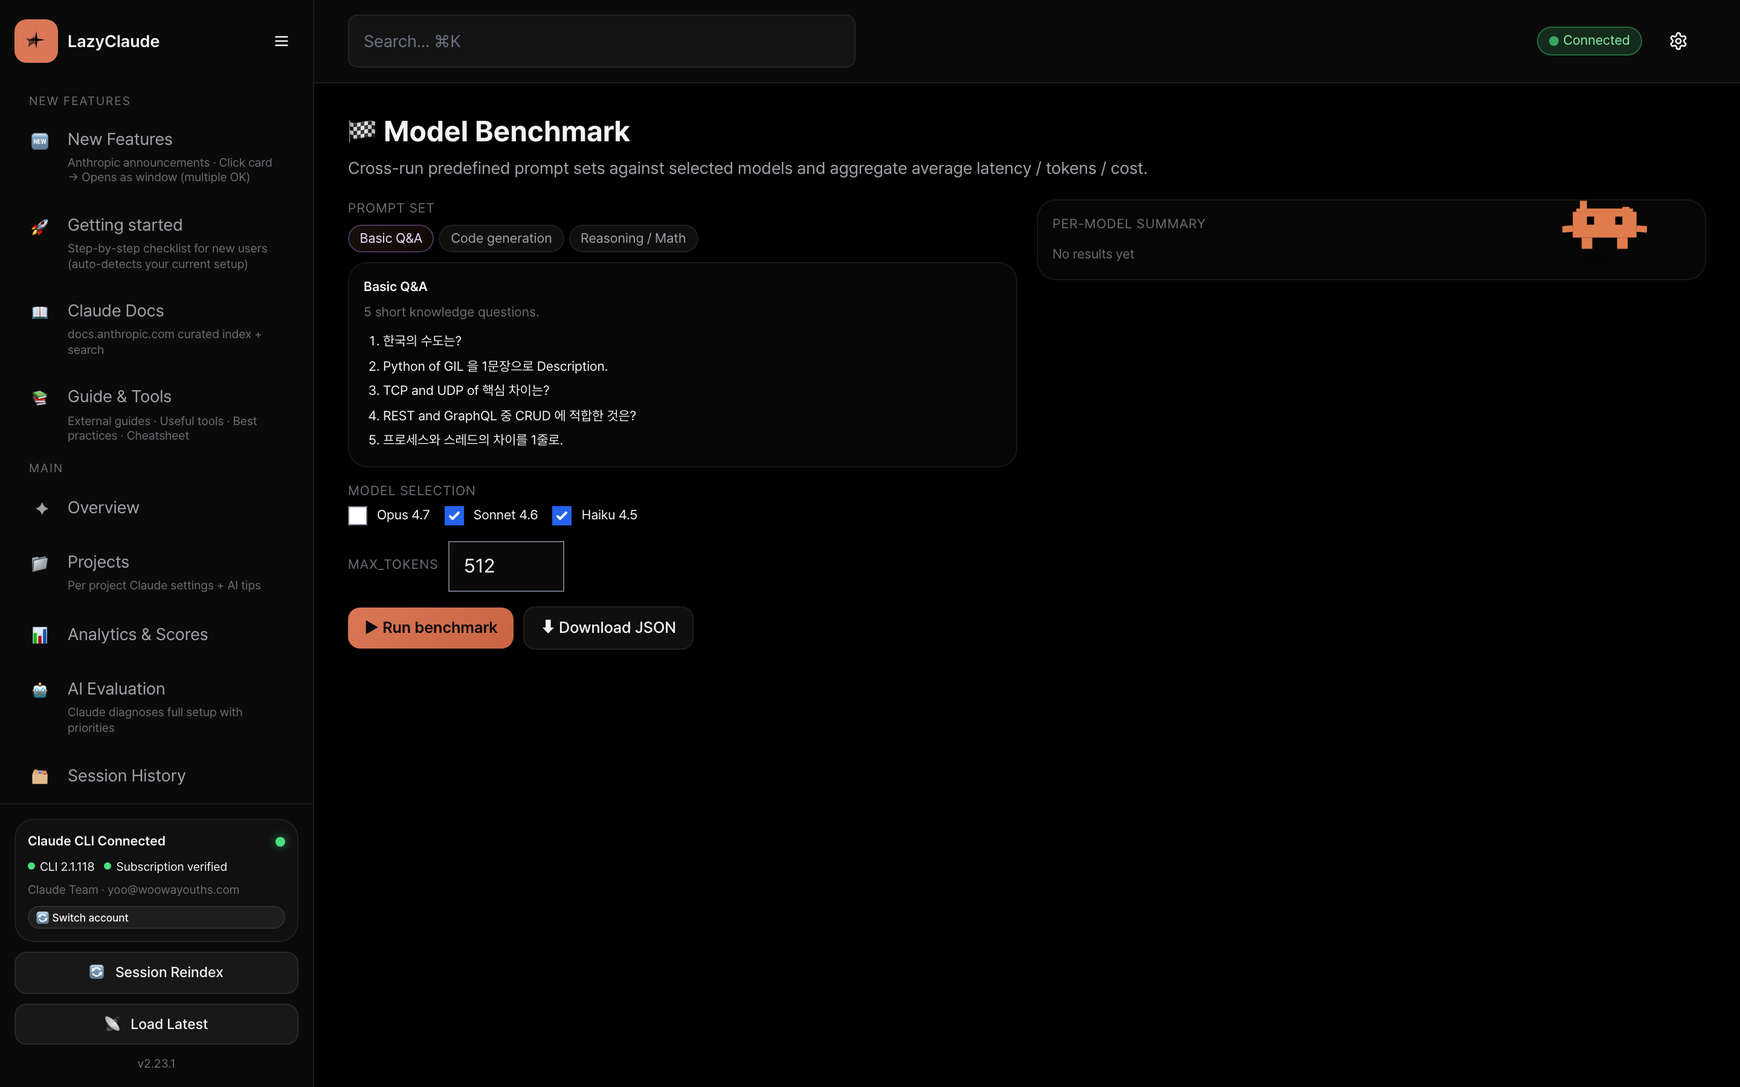
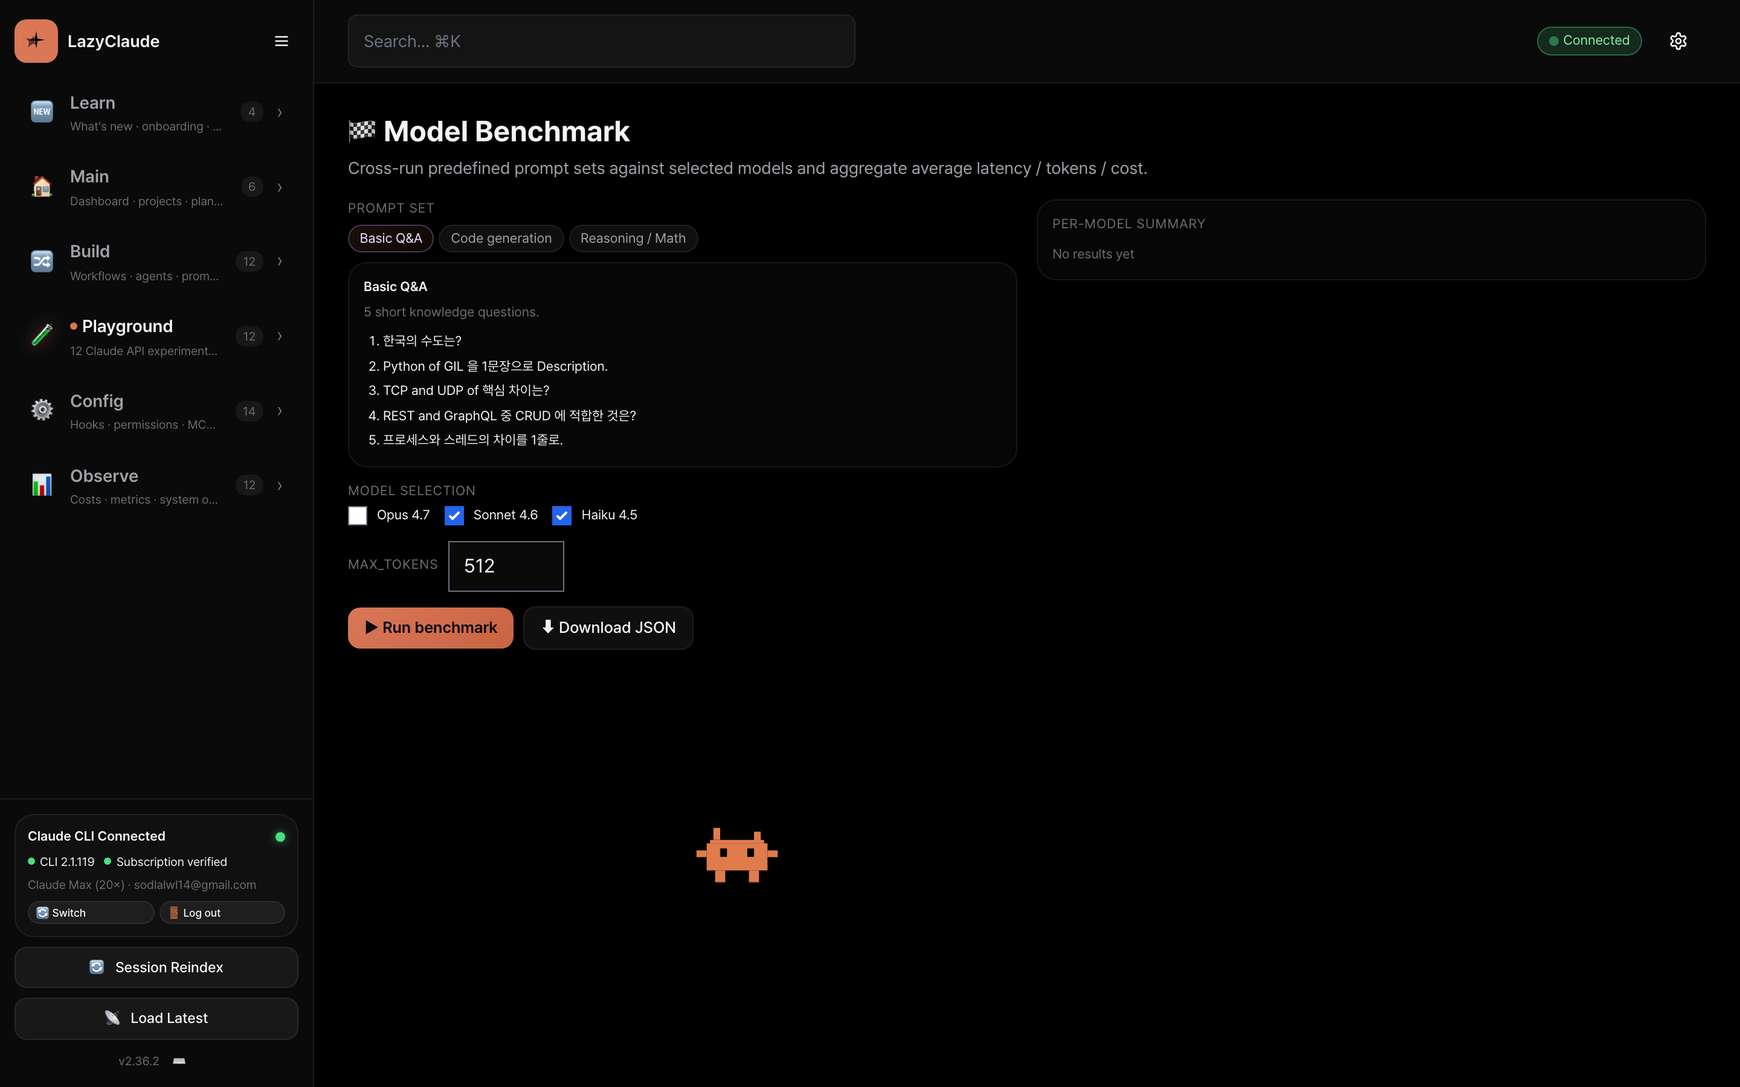
docs: refresh README and screenshots for v2.36 features
- README.md and README.ko.md reflect v2.34.0 → v2.36.2 changes:
  Run Center, Workflow Quick Actions, Commands tab Run buttons,
  OMC/OMX guide cards, server-restart auto-banner.
- New screenshot grid section 'One-click execution (v2.36)' with
  runCenter, crewWizard, commands, guideHub captures.
- Stats panel updated: 54 tabs, 18 workflow node types, 199 routes,
  3,845 i18n keys × 3 locales, 268 Run Center catalog entries, 10
  built-in workflow templates.
- capture-screenshots.mjs adds the 4 new tabs and pre-marks
  cwGuideSeen + auto-dismisses lingering modals so the next tab's
  capture isn't polluted by the previous tab's first-visit overlay.
- All 32 PNGs (16 ko + 16 en) regenerated.

README.zh.md is still on the v2.33.2 baseline — defer to a follow-up
since en is canonical and ko covers Korean speakers.

diff --git a/README.md b/README.md
@@ -27,7 +27,10 @@ LazyClaude is a **local-first command center** that manages your entire `~/.clau
 
 | ver | highlight |
 |---|---|
-| **v2.36.0** | 📦 **Install as a real app** — PWA (Add to Home Screen / install icon, cross-platform) **and** a 72 KB macOS `.app` bundle (`make install-mac` → Spotlight + Dock + auto server lifecycle). Manifest with 3 launch shortcuts, dark/light theme-color, maskable icon. |
+| **v2.36.2** | 🔄 **Server-restart auto-banner** — dashboard polls `/api/version` every 60s and prompts a one-click reload when `serverStartedAt` changes (no more "I deployed but the user is on a stale build"). |
+| **v2.36.1** | 🩹 **Run Center ECC discovery hotfix + OMC/OMX guide cards** — `_ecc_roots()` reads `installed_plugins.json` and recognises both `ecc@ecc` and `everything-claude-code@everything-claude-code` ids. Guide & Tools gains OMC and OMX cards explaining LazyClaude-absorbed vs CLI-only features. |
+| **v2.36.0** | 🎯 **Run Center** — new tab unifying ECC's 181 skills + 79 slash commands + OMC's 4 modes + OMX's 4 commands into one searchable, runnable catalog. **Workflow Quick Actions** — 4 OMC modes (Autopilot / Ralph / Ultrawork / Deep Interview) launchable from the Workflows tab header. **Commands tab Run buttons** — every slash command card gets a ▶ button and an ECC chip. |
+| **v2.35.0** | 📦 **Install as a real app** — PWA (Add to Home Screen / install icon, cross-platform) **and** a 72 KB macOS `.app` bundle (`make install-mac` → Spotlight + Dock + auto server lifecycle). |
 | **v2.34.0** | 🧑✈ **Crew Wizard** — Zapier-style 4-step form scaffolds Planner + Personas + Slack approval + Obsidian log in one click. New `slack_approval` (Slack Web API admin gate) and `obsidian_log` workflow nodes. |
 | **v2.33.2** | 🔌 ECC plugin **full auto-install** via `claude plugin install` — one click from Guide & Tools |
 | **v2.33.1** | 🧰 Guide toolkit manager (ECC + CCB install/remove) · flyout viewport fix · first-visit-only login gate |
@@ -48,7 +51,7 @@ LazyClaude is a **local-first command center** that manages your entire `~/.clau
 
 ```
 ┌────────────────────────────────────────────────────────────────┐
-│  💤  LazyClaude                                     v2.36.0 🇺🇸│
+│  💤  LazyClaude                                     v2.36.2 🇺🇸│
 ├────────┬───────────────────────────────────────────────────────┤
 │ 🆕 New │   🔀 Workflows                                         │
 │ 🏠 Main│   ┌──────┐      ┌──────┐      ┌──────┐                │
@@ -63,7 +66,7 @@ LazyClaude is a **local-first command center** that manages your entire `~/.clau
 └────────┴───────────────────────────────────────────────────────┘
 ```
 
-52 tabs across 6 groups · 16 workflow node types · 8 AI providers · 5 themes · 3 languages.
+54 tabs across 6 groups · 18 workflow node types · 8 AI providers · 5 themes · 3 languages · **Run Center catalog with 268 entries (181 ECC skills + 79 ECC commands + 4 OMC modes + 4 OMX commands)**.
 
 ### 📸 Screenshots
 
@@ -95,6 +98,14 @@ LazyClaude is a **local-first command center** that manages your entire `~/.clau
 | 👥 Project Sub-agents | 🔗 MCP Connectors |
 | ![Project Agents](./docs/screenshots/en/projectAgents.png) | ![MCP](./docs/screenshots/en/mcp.png) |
 
+**One-click execution (v2.36)**
+
+| 🎯 Run Center (ECC + OMC + OMX, 268 items) | 🧑✈ Crew Wizard (Zapier-style scaffolder) |
+|---|---|
+| ![Run Center](./docs/screenshots/en/runCenter.png) | ![Crew Wizard](./docs/screenshots/en/crewWizard.png) |
+| / Slash commands with Run buttons + ECC chips | 📚 Guide & Tools (ECC · OMC · OMX · best practice) |
+| ![Commands](./docs/screenshots/en/commands.png) | ![Guide & Tools](./docs/screenshots/en/guideHub.png) |
+
 **Token Optimization**
 
 | 🦀 RTK Optimizer (install, activate, stats) |
@@ -113,7 +124,7 @@ You already use Claude Code. But as you add more tools — GPT, Gemini, Ollama, 
 
 | Before | With Control Center |
 |---|---|
-| `cat ~/.claude/settings.json` and eyeball it | 52 tabs, each rendering the relevant slice |
+| `cat ~/.claude/settings.json` and eyeball it | 54 tabs, each rendering the relevant slice |
 | `ls ~/.claude/agents/` → open in editor | 16 role presets · one-click create |
 | Shell-script multi-AI comparison | Drag 3 session nodes → merge → output |
 | Manual RAG pipeline assembly | Built-in `RAG Pipeline` template |
@@ -204,6 +215,16 @@ Uninstall with `make uninstall-mac`.
 
 ## ✨ Features
 
+### 🎯 Run Center — execute ECC / OMC / OMX from the dashboard (v2.36)
+
+- **Unified catalog over 268 entries**: ECC's 181 skills + 79 slash commands (parsed from `~/.claude/plugins/cache/<ecc-or-everything-claude-code>/.../{skills,commands}/`), OMC's 4 modes, OMX's 4 commands.
+- **One-click execution** via the existing `execute_with_assignee` pipeline — runs through Claude / GPT / Gemini / Ollama, reports tokens / cost / duration.
+- **Filters**: 5 sources (All / ECC / OMC / OMX / ⭐ Favorites), 6 kinds (skill / command / mode / diagnostic / knowledge), auto-derived category chips.
+- **Save-to-prompt** pushes the result into the Prompt Library; **Convert-to-workflow** hands off either to the matching built-in template (OMC) or scaffolds a 1-node workflow (ECC).
+- **Diagnostics** — `installed_plugins.json` is read first; the sidebar surfaces every scanned root with per-root counts so users can debug "ECC installed but Run Center empty" on their own.
+- **Workflow Quick Actions** — 4 OMC mode buttons (🚀 Autopilot / 🔁 Ralph / 🤝 Ultrawork / 🧐 Deep Interview) at the top of the Workflows tab. Click → enter a goal → workflow scaffolded + auto-run.
+- **Commands tab Run buttons** — every slash command card now has a ▶ Run button and an ECC chip when applicable.
+
 ### 🧑✈ Crew Wizard — Zapier-style scaffolder (v2.34)
 
 - **4-step form** in the `Crew Wizard` tab → planner + personas + Slack approval + Obsidian log workflow built in one click
@@ -258,13 +279,14 @@ Integrates [`rtk-ai/rtk`](https://github.com/rtk-ai/rtk), a Rust CLI proxy that 
 - **Config viewer** — read `~/Library/Application Support/rtk/config.toml` (macOS) or `~/.config/rtk/config.toml` (Linux)
 - **Command reference** — 30+ subcommands grouped into 6 categories (file ops · git · test · build/lint · analytics · utility), with the `-u/--ultra-compact` flag hint
 
-### 🤝 Claude Code Integration (53 tabs)
+### 🤝 Claude Code Integration (54 tabs)
 
 | Group | Tabs |
 |---|---|
 | 🆕 New | `features` · `onboarding` · `guideHub` · `claudeDocs` |
 | 🏠 Main | `overview` · `projects` · `analytics` · `aiEval` · `sessions` |
-| 🛠 Work | `workflows` · `aiProviders` · `agents` · `projectAgents` · `skills` · `commands` · `promptCache` · `thinkingLab` · `toolUseLab` · `batchJobs` · `apiFiles` · `visionLab` · `modelBench` · `serverTools` · `citationsLab` · `agentSdkScaffold` · `embeddingLab` · `promptLibrary` · 🆕 `rtk` |
+| 🛠 Build | `workflows` · 🆕 `runCenter` · 🆕 `crewWizard` · `agents` · `projectAgents` · `skills` · `commands` · `promptLibrary` · `agentSdkScaffold` · `rtk` |
+| 🧪 Playground | `aiProviders` · `promptCache` · `thinkingLab` · `toolUseLab` · `batchJobs` · `apiFiles` · `visionLab` · `modelBench` · `serverTools` · `citationsLab` · `embeddingLab` · `sessionReplay` |
 | ⚙ Config | `hooks` · `permissions` · `mcp` · `plugins` · `settings` · `claudemd` |
 | 🎛 Advanced | `outputStyles` · `statusline` · `plans` · `envConfig` · `modelConfig` · `ideStatus` · `marketplaces` · `scheduled` |
 | 📈 System | `usage` · `metrics` · `memory` · `tasks` · `backups` · `bashHistory` · `telemetry` · `homunculus` · `team` · `system` |
@@ -300,7 +322,11 @@ claude-dashboard/
 │   ├── ai_providers.py           # 8 providers · registry · rate limiter (1,723)
 │   ├── ai_keys.py                # Key mgmt · custom providers · cost tracking (734)
 │   ├── ollama_hub.py             # Catalog · pull/delete/create · serve mgmt (606)
-│   ├── nav_catalog.py            # Single source of truth for 52 tabs + i18n descriptions
+│   ├── nav_catalog.py            # Single source of truth for 54 tabs + i18n descriptions
+│   ├── run_center.py             # Run Center: ECC + OMC + OMX catalog + executor + history (~480)
+│   ├── crew_wizard.py            # Crew Wizard form → DAG builder
+│   ├── slack_api.py              # Slack Web API client (chat.postMessage, reactions.get)
+│   ├── obsidian_log.py           # Obsidian markdown appender (host-rooted, realpath checked)
 │   ├── features.py               # Feature discovery · AI evaluation · recommendations
 │   ├── projects.py               # Project browser · 16 sub-agent role presets
 │   ├── sessions.py               # Session indexing · quality scoring · agent graph
@@ -348,17 +374,21 @@ Atomic writes via `server/utils.py::_safe_write` (`.tmp → rename`), threading 
 
 ---
 
-## 🔢 Stats (v2.36.0)
+## 🔢 Stats (v2.36.2)
 
 | Metric | Value |
 |---|---|
-| Backend code | ~18,000 lines · 46 modules · stdlib only |
-| Frontend code | ~16,600 lines · single HTML file |
-| API routes | **190** (GET 102 / POST 85 / PUT 3 + regex webhook) |
-| Tabs | **52** across 6 groups |
-| Workflow node types | **16** |
+| Backend code | ~19,000 lines · 50 modules · stdlib only |
+| Frontend code | ~18,500 lines · single HTML file |
+| API routes | **199** (GET 105 / POST 91 / PUT 3 + regex webhook) |
+| Tabs | **54** across 6 groups |
+| Workflow node types | **18** (incl. `slack_approval`, `obsidian_log`) |
+| Run Center catalog | **268** entries (181 ECC skills + 79 ECC commands + 4 OMC modes + 4 OMX commands) |
+| Workflow built-in templates | **10** (incl. `bt-autopilot`, `bt-ralph`, `bt-ultrawork`, `bt-deep-interview`, `bt-team-sprint`, `bt-crew`) |
 | AI providers | **8** built-in + unlimited custom |
 | Claude API playground tabs | **11** (prompt cache · extended thinking · tool use · batch · files · vision · model bench · server tools · citations · agent sdk scaffold · embedding lab) |
+| Translations | **3,845** keys × ko / en / zh — 0 Korean residue |
+| Install paths | local (`python3 server.py`) · PWA (any browser) · macOS `.app` (72 KB) |
 | Unified cost timeline | ✓ (all playgrounds + workflows, daily stacked) |
 | Workflow run diff / rerun | ✓ (per-node Δ) |
 | Prompt Library | ✓ (tag search + convert to workflow) |
@@ -398,7 +428,7 @@ npx playwright install chromium
 Then with the dashboard running (`python3 server.py`):
 
 ```bash
-npm run test:e2e:smoke       # 52 tabs — view-render-fail / console-error detection
+npm run test:e2e:smoke       # 54 tabs — view-render-fail / console-error detection
 npm run test:e2e:ui          # workflow DOM + v2.10.x UX regression checks (v2.18.0)
 npm run test:e2e:workflow    # builtin template create → run → banner observed
 npm run test:e2e:all         # smoke + ui in sequence

diff --git a/README.ko.md b/README.ko.md
@@ -27,7 +27,10 @@ LazyClaude 는 **로컬 퍼스트 커맨드 센터** 입니다. `~/.claude/` 디
 
 | 버전 | 요점 |
 |---|---|
-| **v2.36.0** | 📦 **앱 형태로 설치** — PWA(브라우저 "앱 설치" / iOS 홈 화면 추가, 크로스 플랫폼) + 72 KB macOS `.app` 번들(`make install-mac` → Spotlight · Dock · 서버 자동 시작/종료). 매니페스트에 3개 단축 메뉴, dark/light theme-color, maskable 아이콘 포함. |
+| **v2.36.2** | 🔄 **서버 재시작 자동 감지 배너** — 대시보드가 60초마다 `/api/version` 폴링 → `serverStartedAt` 변경 시 화면 하단에 새로고침 배너. "git pull 했는데 사용자는 옛 빌드를 보고 있는" 문제 자동 해결. |
+| **v2.36.1** | 🩹 **Run Center ECC 인식 hotfix + OMC/OMX 가이드 카드** — `_ecc_roots()`가 `installed_plugins.json`을 읽어 `ecc@ecc`와 `everything-claude-code@everything-claude-code` 두 플러그인 ID 모두 인식. 가이드 & 툴에 OMC/OMX 카드 추가 (LazyClaude 흡수 vs CLI 전용 비교). |
+| **v2.36.0** | 🎯 **런 센터** — ECC 181 스킬 + 79 슬래시 명령 + OMC 4 모드 + OMX 4 명령을 한 화면에서 검색·1클릭 실행하는 신규 탭. **워크플로우 빠른 실행 (Quick Actions)** — 4 OMC 모드(Autopilot / Ralph / Ultrawork / Deep Interview)를 워크플로우 탭 헤더에서 바로 실행. **슬래시 명령어 탭 Run 버튼** — 모든 명령 카드에 ▶ 버튼 + ECC 칩. |
+| **v2.35.0** | 📦 **앱 형태로 설치** — PWA(브라우저 "앱 설치" / iOS 홈 화면 추가, 크로스 플랫폼) + 72 KB macOS `.app` 번들(`make install-mac` → Spotlight · Dock · 서버 자동 시작/종료). |
 | **v2.34.0** | 🧑✈ **크루 위저드** — Zapier 식 4-스텝 폼만 채우면 기획자 + 페르소나 N명 + Slack 어드민 게이트 + Obsidian 기록까지 자동 생성. 신규 노드 `slack_approval` (Slack Web API), `obsidian_log`. |
 | **v2.33.2** | 🔌 ECC 플러그인 **완전 자동 설치** — 가이드 & 툴 탭에서 원클릭, Claude Code 명령어 입력 불필요 |
 | **v2.33.1** | 🧰 가이드 툴킷 관리자 (ECC / CCB 설치·제거) · flyout viewport 수정 · 로그인 게이트 첫 방문만 |
@@ -48,7 +51,7 @@ LazyClaude 는 **로컬 퍼스트 커맨드 센터** 입니다. `~/.claude/` 디
 
 ```
 ┌────────────────────────────────────────────────────────────────┐
-│  💤  LazyClaude                                     v2.36.0 🇰🇷│
+│  💤  LazyClaude                                     v2.36.2 🇰🇷│
 ├────────┬───────────────────────────────────────────────────────┤
 │ 🆕 신기능│   🔀 워크플로우                                       │
 │ 🏠 메인 │   ┌──────┐      ┌──────┐      ┌──────┐               │
@@ -63,7 +66,7 @@ LazyClaude 는 **로컬 퍼스트 커맨드 센터** 입니다. `~/.claude/` 디
 └────────┴───────────────────────────────────────────────────────┘
 ```
 
-6 그룹 52 탭 · 16 워크플로우 노드 타입 · 8 AI 프로바이더 · 5 테마 · 3 언어.
+6 그룹 54 탭 · 18 워크플로우 노드 타입 · 8 AI 프로바이더 · 5 테마 · 3 언어 · **Run Center 카탈로그 268 항목 (ECC 181 스킬 + 79 슬래시 명령 + OMC 4 모드 + OMX 4 명령)**.
 
 ### 📸 스크린샷
 
@@ -95,6 +98,14 @@ LazyClaude 는 **로컬 퍼스트 커맨드 센터** 입니다. `~/.claude/` 디
 | 👥 프로젝트 서브에이전트 | 🔗 MCP 커넥터 |
 | ![Project Agents](./docs/screenshots/ko/projectAgents.png) | ![MCP](./docs/screenshots/ko/mcp.png) |
 
+**1-클릭 실행 (v2.36)**
+
+| 🎯 런 센터 (ECC + OMC + OMX 통합 카탈로그 268 항목) | 🧑✈ 크루 위저드 (Zapier 식 자동 생성기) |
+|---|---|
+| ![Run Center](./docs/screenshots/ko/runCenter.png) | ![Crew Wizard](./docs/screenshots/ko/crewWizard.png) |
+| / 슬래시 명령어 (Run 버튼 + ECC 칩) | 📚 가이드 & 툴 (ECC · OMC · OMX · 베스트 프랙티스) |
+| ![Commands](./docs/screenshots/ko/commands.png) | ![Guide & Tools](./docs/screenshots/ko/guideHub.png) |
+
 **토큰 최적화**
 
 | 🦀 RTK Optimizer (설치 · 활성 · 통계) |
@@ -113,7 +124,7 @@ _모든 스크린샷은 `scripts/capture-screenshots.mjs` (Playwright · 1440×9
 
 | 이전 방식 | Control Center |
 |---|---|
-| `cat ~/.claude/settings.json` 눈으로 확인 | 52 탭이 각 섹션을 렌더링 |
+| `cat ~/.claude/settings.json` 눈으로 확인 | 54 탭이 각 섹션을 렌더링 |
 | `ls ~/.claude/agents/` → 에디터 열기 | 16 역할 프리셋 · 원클릭 생성 |
 | 쉘 스크립트로 멀티 AI 비교 | 세션 노드 3개 드래그 → merge → output |
 | RAG 파이프라인 수동 구성 | 빌트인 `RAG Pipeline` 템플릿 |
@@ -178,6 +189,16 @@ API 키는 `🧠 AI 프로바이더` 탭에서 저장해도 됩니다 — `~/.cl
 
 ## ✨ 주요 기능
 
+### 🎯 런 센터 — ECC / OMC / OMX 를 대시보드에서 직접 실행 (v2.36)
+
+- **268 항목 통합 카탈로그**: ECC 의 181 스킬 + 79 슬래시 명령(`~/.claude/plugins/cache/<ecc 또는 everything-claude-code>/.../{skills,commands}/` 에서 직접 스캔), OMC 4 모드, OMX 4 명령
+- **1-클릭 실행** — 기존 `execute_with_assignee` 파이프라인 그대로 사용. Claude / GPT / Gemini / Ollama 어떤 프로바이더든 dispatch. 토큰 / 비용 / 소요 시간 모두 보고
+- **필터**: 5 소스 (전체 / ECC / OMC / OMX / ⭐ 즐겨찾기) · 6 종류 (skill / command / mode / diagnostic / knowledge) · 자동 추출 카테고리 칩
+- **결과를 프롬프트로 저장** → Prompt Library, **워크플로우로 변환** → 매칭되는 빌트인 템플릿 (OMC) 또는 1-노드 워크플로우 (ECC) 자동 생성
+- **진단** — `installed_plugins.json` 우선 읽기, 사이드바에 스캔된 모든 root 와 카운트 노출 → "ECC 설치했는데 런 센터에 안 나옴" 사용자 자가 디버그 가능
+- **워크플로우 빠른 실행 (Quick Actions)** — 워크플로우 탭 헤더에 4 OMC 모드 버튼 (🚀 Autopilot / 🔁 Ralph / 🤝 Ultrawork / 🧐 Deep Interview). 클릭 → 목표 입력 → 워크플로우 자동 생성 + 실행
+- **슬래시 명령어 탭 Run 버튼** — 모든 슬래시 명령 카드에 ▶ Run 버튼과 (해당 시) ECC 칩
+
 ### 🧑✈ 크루 위저드 — Zapier 스타일 자동 생성기 (v2.34)
 
 - **4-스텝 폼** — `크루 위저드` 탭에서 폼만 채우면 기획자 + 페르소나 N명 + Slack 어드민 게이트 + Obsidian 기록까지 한 번에 자동 생성
@@ -232,7 +253,7 @@ API 키는 `🧠 AI 프로바이더` 탭에서 저장해도 됩니다 — `~/.cl
 - **설정 파일 뷰어** — `~/Library/Application Support/rtk/config.toml` (macOS) / `~/.config/rtk/config.toml` (Linux)
 - **명령 레퍼런스** — 30+ 서브커맨드를 6 카테고리(파일 · Git · Test · Build/Lint · Analytics · Utility)로 그룹핑 + `-u/--ultra-compact` 힌트
 
-### 🤝 Claude Code 통합 (53 탭)
+### 🤝 Claude Code 통합 (54 탭)
 
 | 그룹 | 탭 |
 |---|---|
@@ -322,16 +343,20 @@ claude-dashboard/
 
 ---
 
-## 🔢 통계 (v2.36.0)
+## 🔢 통계 (v2.36.2)
 
 | 지표 | 값 |
 |---|---|
-| 백엔드 코드 | ~18,000줄 · 46 모듈 · stdlib only |
-| 프론트엔드 코드 | ~16,600줄 · 단일 HTML |
-| API 라우트 | **190** (GET 102 / POST 85 / PUT 3 + regex webhook) |
-| 탭 수 | **52** (6 그룹) |
-| 워크플로우 노드 타입 | **16** |
+| 백엔드 코드 | ~19,000줄 · 50 모듈 · stdlib only |
+| 프론트엔드 코드 | ~18,500줄 · 단일 HTML |
+| API 라우트 | **199** (GET 105 / POST 91 / PUT 3 + regex webhook) |
+| 탭 수 | **54** (6 그룹) |
+| 워크플로우 노드 타입 | **18** (`slack_approval`, `obsidian_log` 포함) |
+| 런 센터 카탈로그 | **268** 항목 (ECC 181 스킬 + 79 명령 + OMC 4 모드 + OMX 4 명령) |
+| 워크플로우 빌트인 템플릿 | **10** (`bt-autopilot` · `bt-ralph` · `bt-ultrawork` · `bt-deep-interview` · `bt-team-sprint` · `bt-crew` 등) |
 | AI 프로바이더 | **8** 빌트인 + 커스텀 무제한 |
+| 번역 키 | **3,845** × ko / en / zh — 한글 잔존 0 |
+| 설치 방법 | local (`python3 server.py`) · PWA (모든 브라우저) · macOS `.app` (72 KB) |
 | Claude API 플레이그라운드 탭 | **11** (프롬프트 캐시 · Extended Thinking · Tool Use · Batch · Files · Vision · 모델 벤치 · Server Tools · Citations · Agent SDK 스캐폴드 · Embedding Lab) |
 | 통합 비용 타임라인 | ✓ (모든 플레이그라운드 + 워크플로우, 일별 스택) |
 | 워크플로우 run diff / rerun | ✓ (per-node Δ) |
@@ -372,7 +397,7 @@ npx playwright install chromium
 대시보드 서버가 실행 중인 상태에서 (`python3 server.py`):
 
 ```bash
-npm run test:e2e:smoke       # 52 탭 — 뷰 렌더 실패 / console error 검출
+npm run test:e2e:smoke       # 54 탭 — 뷰 렌더 실패 / console error 검출
 npm run test:e2e:workflow    # 빌트인 템플릿 생성 → 실행 → 배너 등장 관찰
 npm run test:e2e:headed      # 브라우저 창 띄워서 실행
 TAB_ID=workflows npm run test:e2e:smoke   # 단일 탭만
